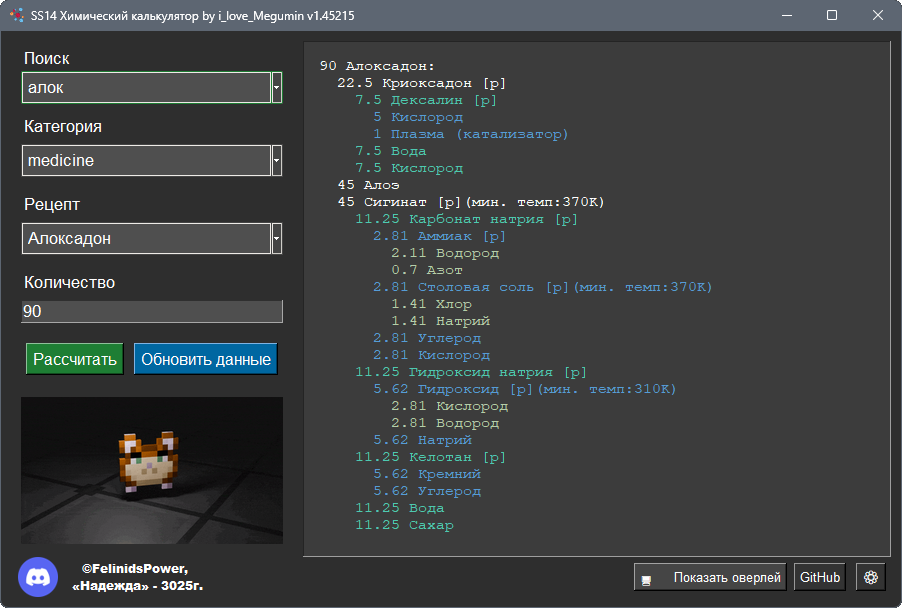
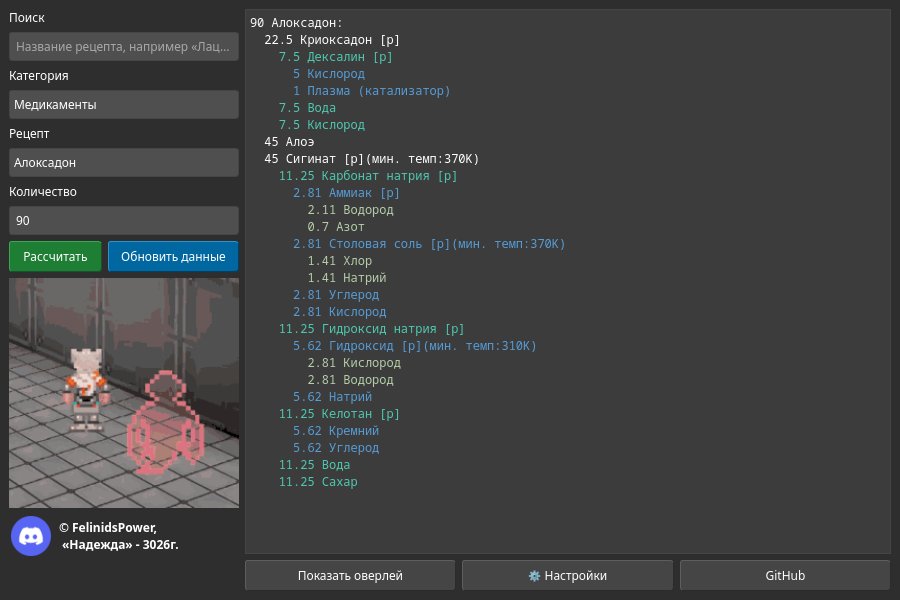
some fixs for release

Changed region(s): [[0.0, 0.0, 1.0, 1.0], [0.6533, 0.63, 0.7467, 0.66]]

diff --git a/ui.py b/ui.py
@@ -22,6 +22,7 @@ HANDLE_PREFIX = 'overlay_handle_'
 APP_STYLE_SHEET = """
 QMainWindow, QDialog { background-color: #2e2e2e; }
 QLabel { color: #ffffff; background: transparent; }
+QLabel#footer_caption { font-weight: bold; }
 QLineEdit, QComboBox {
     background-color: #4f4f4f;
     color: #ffffff;
@@ -232,7 +233,7 @@ def init_ui(self):
 
     self.setWindowTitle(f'{APP_TITLE} v{self.current_version}')
     self.setWindowIcon(QtGui.QIcon(icon_path()))
-    self.resize(900, 620)
+    self.resize(900, 600)
 
     central = QtWidgets.QWidget(self)
     self.setCentralWidget(central)
@@ -378,6 +379,7 @@ def _init_footer(self, layout):
         row.addWidget(button)
 
     caption = QtWidgets.QLabel('© FelinidsPower,\n «Надежда» - 3026г.')
+    caption.setObjectName('footer_caption')
     row.addWidget(caption)
     row.addStretch()
     layout.addLayout(row)
@@ -849,10 +851,10 @@ def _fit_links_columns(self):
 def reload_links_table(self):
     """Fill the links table with the sources and the downloaded files.
 
-    Sources keep their configured order; downloaded files that no longer
-    belong to a source are listed after them with an empty link.  Every
-    cell is read-only: the category and the link change only through the
-    dialog and the file name is automatic.
+    Sources keep their configured order; local files the user put into the
+    folder themselves are listed after them with the «Локальный» link.
+    Every cell is read-only: the category and the link change only through
+    the dialog and the file name is automatic.
     """
     sources, _live_sources, folder, suffix = _current_links(self)
     downloaded = logic.local_files(folder, suffix)
@@ -872,7 +874,7 @@ def reload_links_table(self):
         file_item = QtWidgets.QTableWidgetItem(f'{name}{suffix}{note}')
         file_item.setFlags(file_item.flags() & ~QtCore.Qt.ItemIsEditable)
 
-        url_item = QtWidgets.QTableWidgetItem(sources.get(name, ''))
+        url_item = QtWidgets.QTableWidgetItem(sources.get(name, 'Локальный'))
         url_item.setData(QtCore.Qt.UserRole, name)
         url_item.setFlags(url_item.flags() & ~QtCore.Qt.ItemIsEditable)
 
@@ -894,8 +896,14 @@ def _current_links(self):
 
 
 def edit_link(self, is_edit=False):
-    """Add a source or change the one selected in the table."""
+    """Add a source or change the one selected in the table.
+
+    A file the user put into the folder themselves carries no source: its
+    link reads «Локальный» and cannot be edited, so saving changes only the
+    category.  Without a source the file is never downloaded.
+    """
     is_recipes = self.links_mode == 'Рецепты'
+    saved_links, live_sources, folder, suffix = _current_links(self)
     stem, label, url = '', '', ''
     if is_edit:
         selected = self.links_table.selectedItems()
@@ -906,6 +914,7 @@ def edit_link(self, is_edit=False):
         stem = self.links_table.item(row, 0).data(QtCore.Qt.UserRole)
         label = self.links_table.item(row, 0).text() if is_recipes else stem
         url = self.links_table.item(row, 1 if is_recipes else 0).text()
+    is_local = is_edit and stem not in saved_links
 
     dialog = QtWidgets.QDialog(self)
     dialog.setWindowTitle('Редактирование ссылки' if is_edit else 'Добавление ссылки')
@@ -917,13 +926,14 @@ def edit_link(self, is_edit=False):
         label_edit = QtWidgets.QLineEdit(label)
         layout.addWidget(label_edit)
     layout.addWidget(QtWidgets.QLabel('Ссылка:'))
-    url_edit = QtWidgets.QLineEdit(url)
+    url_edit = QtWidgets.QLineEdit('Локальный' if is_local else url)
+    url_edit.setReadOnly(is_local)
     layout.addWidget(url_edit)
 
     def save():
         nonlocal stem
         new_url = url_edit.text().strip()
-        if not new_url.startswith(('http://', 'https://')):
+        if not is_local and not new_url.startswith(('http://', 'https://')):
             QtWidgets.QMessageBox.critical(dialog, 'Ошибка', 'Ссылка должна начинаться с http:// или https://')
             return
 
@@ -938,7 +948,6 @@ def edit_link(self, is_edit=False):
                     'Категория не может содержать символы, запрещённые в именах файлов')
                 return
 
-        saved_links, live_sources, folder, suffix = _current_links(self)
         if not is_edit:
             base = logic.file_stem_from_url(new_url)
             if not base:
@@ -948,8 +957,9 @@ def edit_link(self, is_edit=False):
             taken = set(saved_links) | logic.local_files(folder, suffix)
             stem = logic.fresh_file_stem(base, taken)
 
-        saved_links[stem] = new_url
-        live_sources[stem] = new_url
+        if not is_local:
+            saved_links[stem] = new_url
+            live_sources[stem] = new_url
         if is_recipes:
             if new_label == stem:
                 self.recipe_file_categories.pop(stem, None)

diff --git a/data.py b/data.py
@@ -261,10 +261,11 @@ ABOUT_INFO = (
     "или добавить ссылку на файл рецептов, например с GitHub\n"
     "проекта, на котором вы играете. Аналогично с переводами.\n"
     "\n"
-    "Если вы добавили рецепты, не забудьте обновить данные!\n"
+    "Если вы добавили новые ссылки, не забудьте обновить данные.\n"
+    "Если добавили локальные рецепты - перезапустите приложение.\n"
     "\n"
     "Если вы столкнулись с проблемой —\n"
-    "попробуйте сбросить настройки и перезапустить приложение!"
+    "попробуйте сбросить настройки и/или перезапустить приложение!"
 )
 
 UPDATE_MESSAGES = [

diff --git a/README.md b/README.md
@@ -1,11 +1,12 @@
 # SS14 Химический калькулятор 🧪
+Калькулятор для расчета реагентов в игре **Space Station 14**
 
 [![GitHub release](https://img.shields.io/github/v/release/R-R0S/ss14-calc?include_prereleases&style=for-the-badge)](https://github.com/R-R0S/ss14-calc/releases/latest)
 [![License](https://img.shields.io/github/license/R-R0S/ss14-calc?style=for-the-badge)](LICENSE)
 
+
 ![screenshot1](https://github.com/R-R0S/ss14-calc/blob/main/img/screenshot1.png?raw=true)
 
-Калькулятор для расчета реагентов в игре **Space Station 14**
 
 ## 🌟 Особенности
 - Расчет цепочек реакций с глубиной вложенности
@@ -14,25 +15,27 @@
 - Лёгкое добавление собственных рецептов (локально или с GitHub)
 - Автоматическая проверка обновлений
 - Поддержка рецептов электролиза, центрифуги и смешивания напитков
+- Лёгкий поиск рецептов через поисковую строку
+- Вы можете скрывать рецепты в реакции или выбирать альтернативные просто кликнув по ним
 
-## 📥 Установка
-### Скачайте готовый билд:
+
+### 📥 Установка (Windows)
+* Для windows скачайте ss14-calc.exe из последнего релиза:
 [▶ Последний релиз](https://github.com/R-R0S/ss14-calc/releases/latest)
-- после запуска приложение создаст каталоги для рецептов и переводов, а так же файл настроек.
+- после запуска приложение создаст каталоги для рецептов, переводов и пресетов, а так же файл настроек.
+
 
 ### 🎮 Использование
-* Обновите данные (Для загрузки стандартных рецептов/переводов)
-* Выберите категорию и рецепт
-* Укажите нужное количество продукта
-* Нажмите "Рассчитать"
-* Рецепт отобразится в правой части окна и в оверлее
-  * Или просто вбейте название в поиск и нажмите Enter
+* После запуска зайдите в настройки - Данные - Пресеты
+* Выберите пресет для вашего сервера и нажмите "Загрузить"
+* Можете закрывать настройки и пользоваться калькулятором
 
-```🔄 Обновить данные ``` - Обновление рецептов с GitHub
+```🔄 Обновить данные ``` - Обновление рецептов и переводов, ссылки указываются в настройках
 
 ```🖥 Показать/скрыть Оверлей``` - Включает оверлей с рецептами
 
-```⚙ Настройки``` -  Настройки, изменяйте прозрачность оверлея, цветов в рекурсии и добавляйте свои рецепты и переводы.
+```⚙ Настройки``` -  Настройки, изменяйте прозрачность оверлея, цветов в рекурсии, добавляйте свои рецепты, переводы и пресеты.
+
 
 ### 🐧 Запуск из исходников (Linux)
 1. Клонируйте репозиторий:
@@ -45,9 +48,6 @@ cd ss14-calc
 ```bash
 ./run.sh
 ```
-Скрипт можно запускать из любой папки: данные (`settings.cfg`, `recipes/`,
-`translations/`) создаются рядом с ним. Если окружение уже есть, скрипт
-проверит только версии пакетов и при необходимости доустановит их.
 
 То же самое вручную, без скрипта:
 ```bash
@@ -57,25 +57,22 @@ pip install -r requirements.txt
 python main.py
 ```
 
+
 ### 📦 Требования
 * Python 3.10+ (проверено на 3.12 и 3.14)
-* Windows 10/11 (готовый `.exe`) или Linux (`./run.sh`)
 
-### 🧪 Тесты
-```bash
-./.venv/bin/python test/test_app.py
-```
-Скрипты из `test/` запускаются во временной папке с копией данных, поэтому
-ваши `settings.cfg`, `recipes/` и `translations/` не изменяются.
-Подробнее — в [test/README.md](test/README.md).
 
-### 🛠 Настройка оверлея
+### 🛠 Использование оверлея
 1. В игре включите Оконный режим
 2. Запустите калькулятор и нажмите ```🖥 Показать оверлей```
 3. Перетащите окно оверлея в нужную позицию, задайте размер
-4. Теперь в оверлее будет дублироваться рецепт из основного окна (Вы так же можете прокручивать оверлей колёсиком мыши)
+4. Теперь в оверлее будет дублироваться рецепт из основного окна
+5. Прозрачность оверлея можно изменить в настройках (Вы так же можете прокручивать оверлей колёсиком мыши)
+6. Реактанты в оверлее тоже кликабельные, скрывайте рецепты того, что уже готово или выбирайте альтернативные рецепты.
+
 
 ### Проблемы
-*Это кто-то вообще читает?*
- * Если вы столкнулись с проблемой, можете написать мне в [дискорд](https://discord.com/users/317692089355862016) или в [issue](https://github.com/R-R0S/ss14-calc/issues) на [гитхаб](https://github.com/R-R0S/ss14-calc)
-- Возможно, антивирус будет ругаться на `.exe` файл. В таком случае удалите ваш антивирус. (или добавьте файл/рабочую папку в исключения антивируса)
+ * Если вы столкнулись с проблемой, попробуйте воспользоваться сбросом настроек.
+ Настройки > О приложении > Сбросить все настройки.
+ * Если сброс не помог - можете написать мне в [дискорд](https://discord.com/users/317692089355862016) или в [issue](https://github.com/R-R0S/ss14-calc/issues) на GitHub
+ * Возможно, антивирус будет ругаться на `.exe` файл. В таком случае удалите ваш антивирус. (или добавьте файл/рабочую папку в исключения антивируса)
